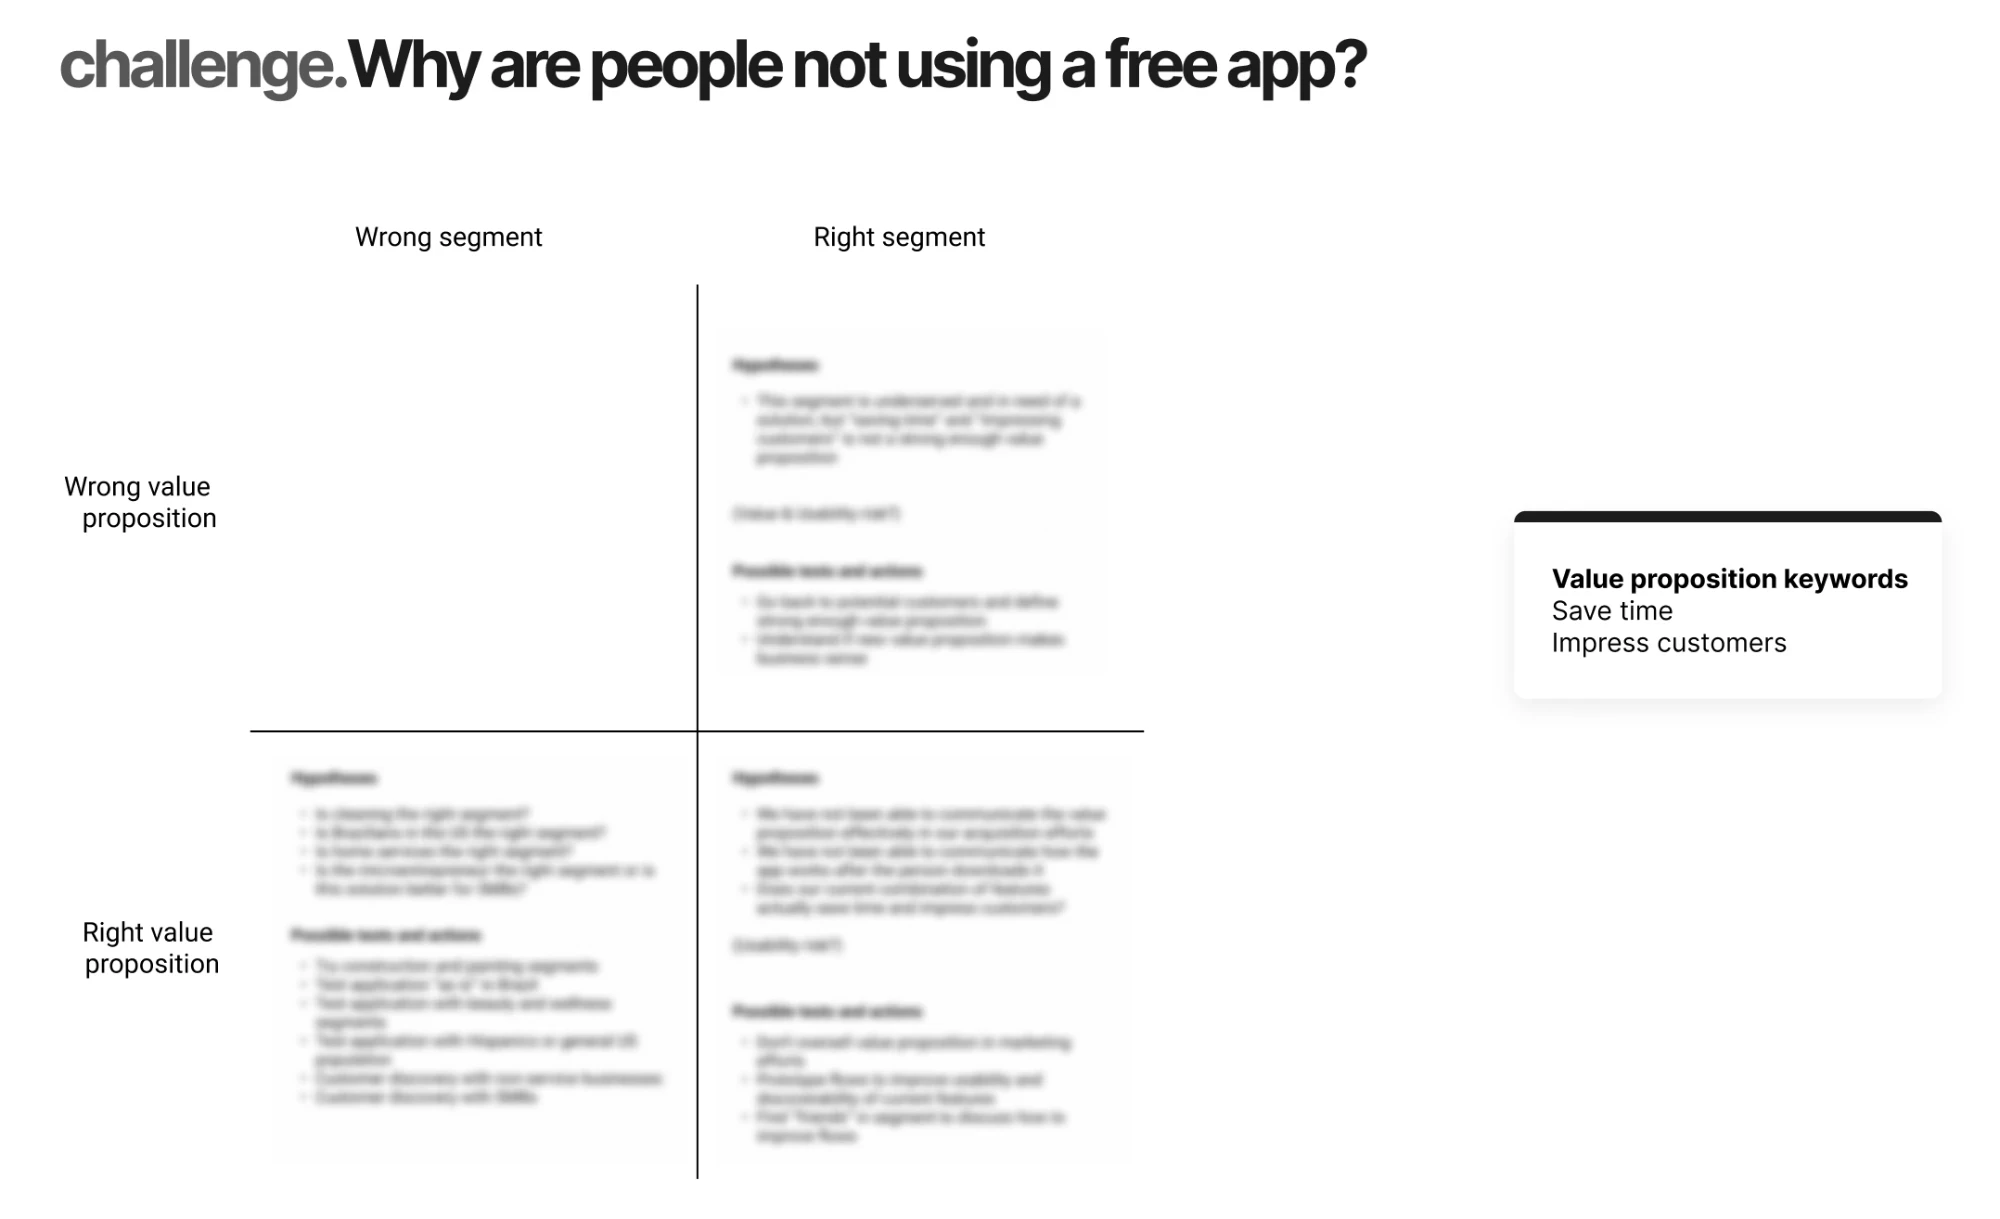
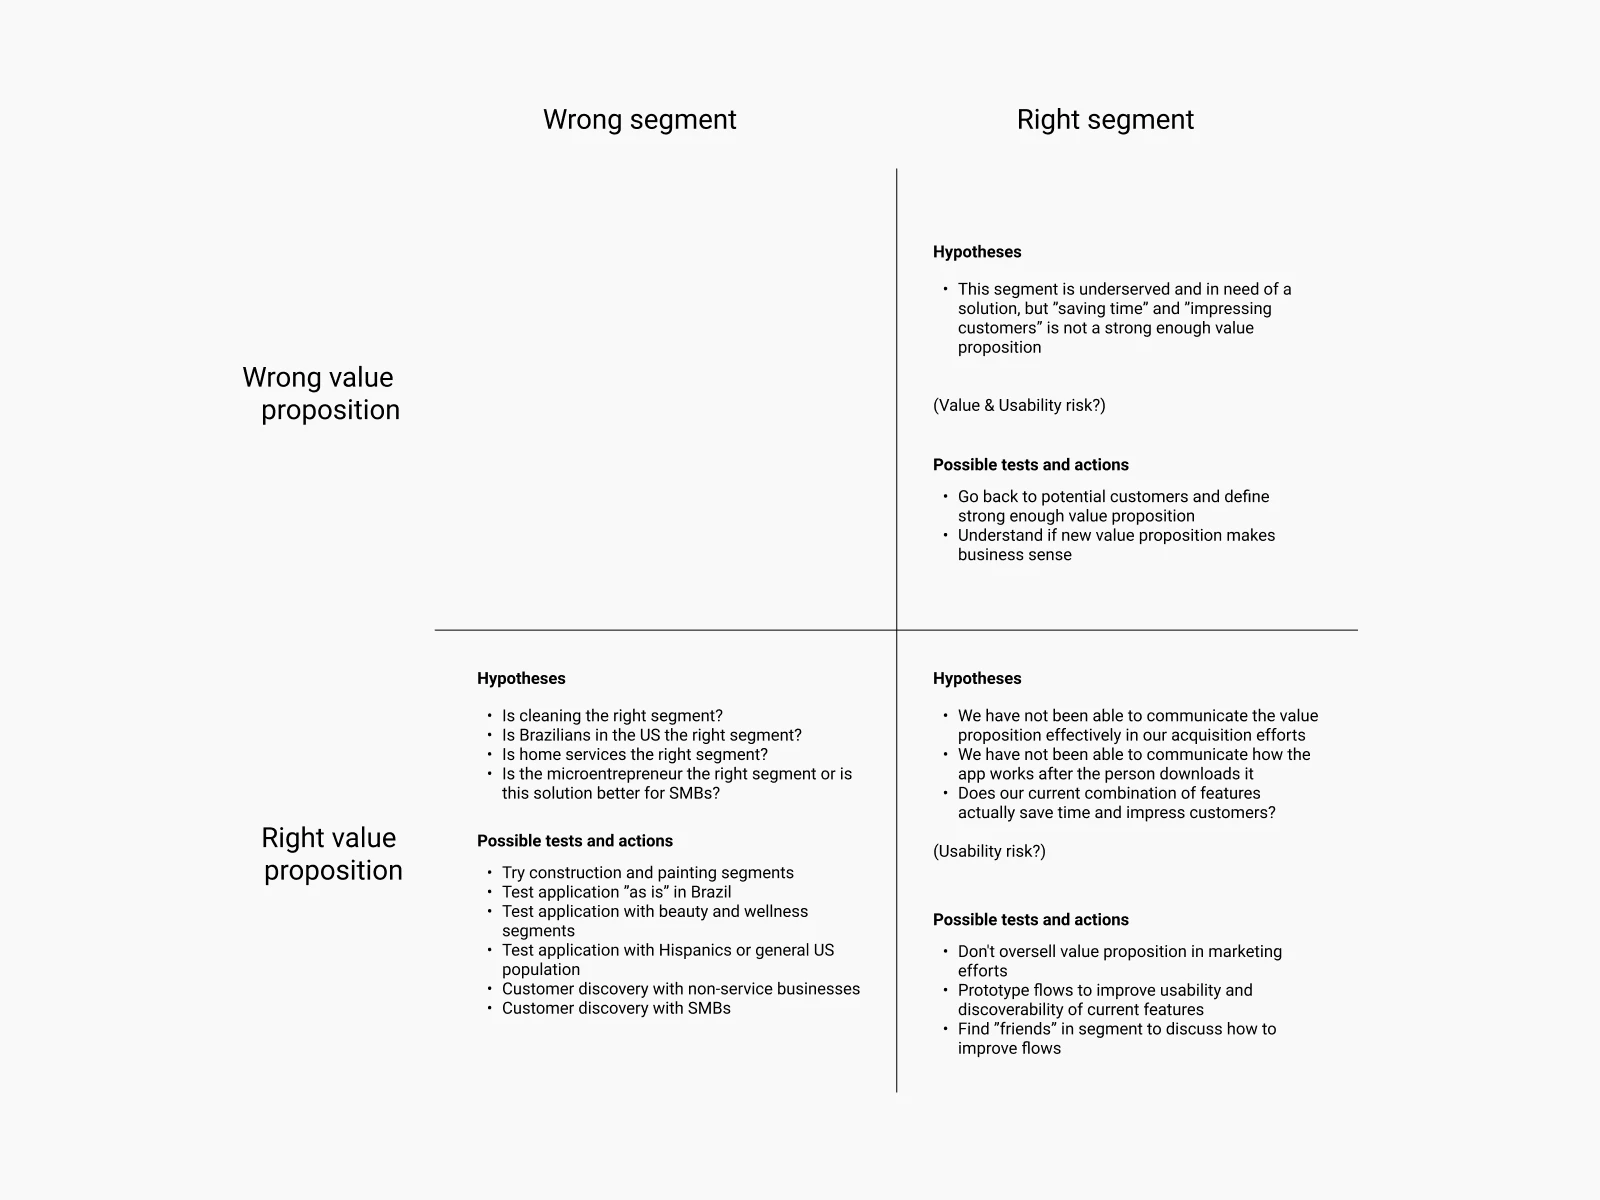
Use the legible challenge matrix in a narrower frame
The new export drops the slide title and blur, so each quadrant's
hypotheses and tests can be read. It sits in a 4:3 frame narrower
than the other images; the frame for images at their own ratio is no
longer needed.

Claude-Session: https://claude.ai/code/session_01TCmBXcxVTZswQwPycKWr3i

diff --git a/quaddro.html b/quaddro.html
@@ -175,6 +175,7 @@
       margin: var(--space-10) auto 0;
       padding: 0 var(--gutter);
     }
+    .media-block.narrow { max-width: calc(52rem + 2 * var(--gutter)); }
     .media-grid {
       display: grid;
       grid-template-columns: repeat(auto-fit, minmax(min(100%, 20rem), 1fr));
@@ -188,8 +189,6 @@
       overflow: hidden;
     }
     .case-figure.wide { aspect-ratio: 21 / 9; }
-    .case-figure.natural { aspect-ratio: auto; }
-    .case-figure.natural img { height: auto; }
     .case-figure img {
       display: block;
       width: 100%;
@@ -456,15 +455,15 @@
     <p class="body-copy" data-reveal="up">The first question was why people stopped using an app that cost them nothing. We split it in two: were we reaching the wrong segment, or offering the wrong value proposition? The promise at the time was to save time and impress customers. Each quadrant got its own hypotheses and the tests that could rule them out.</p>
   </section>
 
-  <figure class="media-block" data-reveal="up">
-    <div class="case-figure natural">
-      <img src="quaddro/challenge-matrix.webp" alt="A two by two matrix titled Why are people not using a free app, crossing wrong and right segment with wrong and right value proposition, each quadrant listing hypotheses and possible tests, next to the value proposition keywords save time and impress customers" loading="lazy" onerror="this.closest('.case-figure').classList.add('is-missing')" />
+  <figure class="media-block narrow" data-reveal="up">
+    <div class="case-figure">
+      <img src="quaddro/challenge-matrix.webp" alt="A two by two matrix crossing wrong and right segment with wrong and right value proposition. Each filled quadrant lists hypotheses and possible tests, such as trying other segments, testing the app as is in Brazil, and redefining a value proposition stronger than saving time and impressing customers" loading="lazy" onerror="this.closest('.case-figure').classList.add('is-missing')" />
       <div class="image-placeholder">
-        <span class="placeholder-index">Export 09</span>
+        <span class="placeholder-index">Export 09 · 4:3</span>
         <div class="placeholder-content">
           <span class="placeholder-mark" aria-hidden="true">+</span>
           <strong>The challenge matrix</strong>
-          <span>Segment against value proposition, with the value proposition keywords beside it.</span>
+          <span>Segment against value proposition, with hypotheses and tests in each quadrant.</span>
         </div>
       </div>
     </div>
